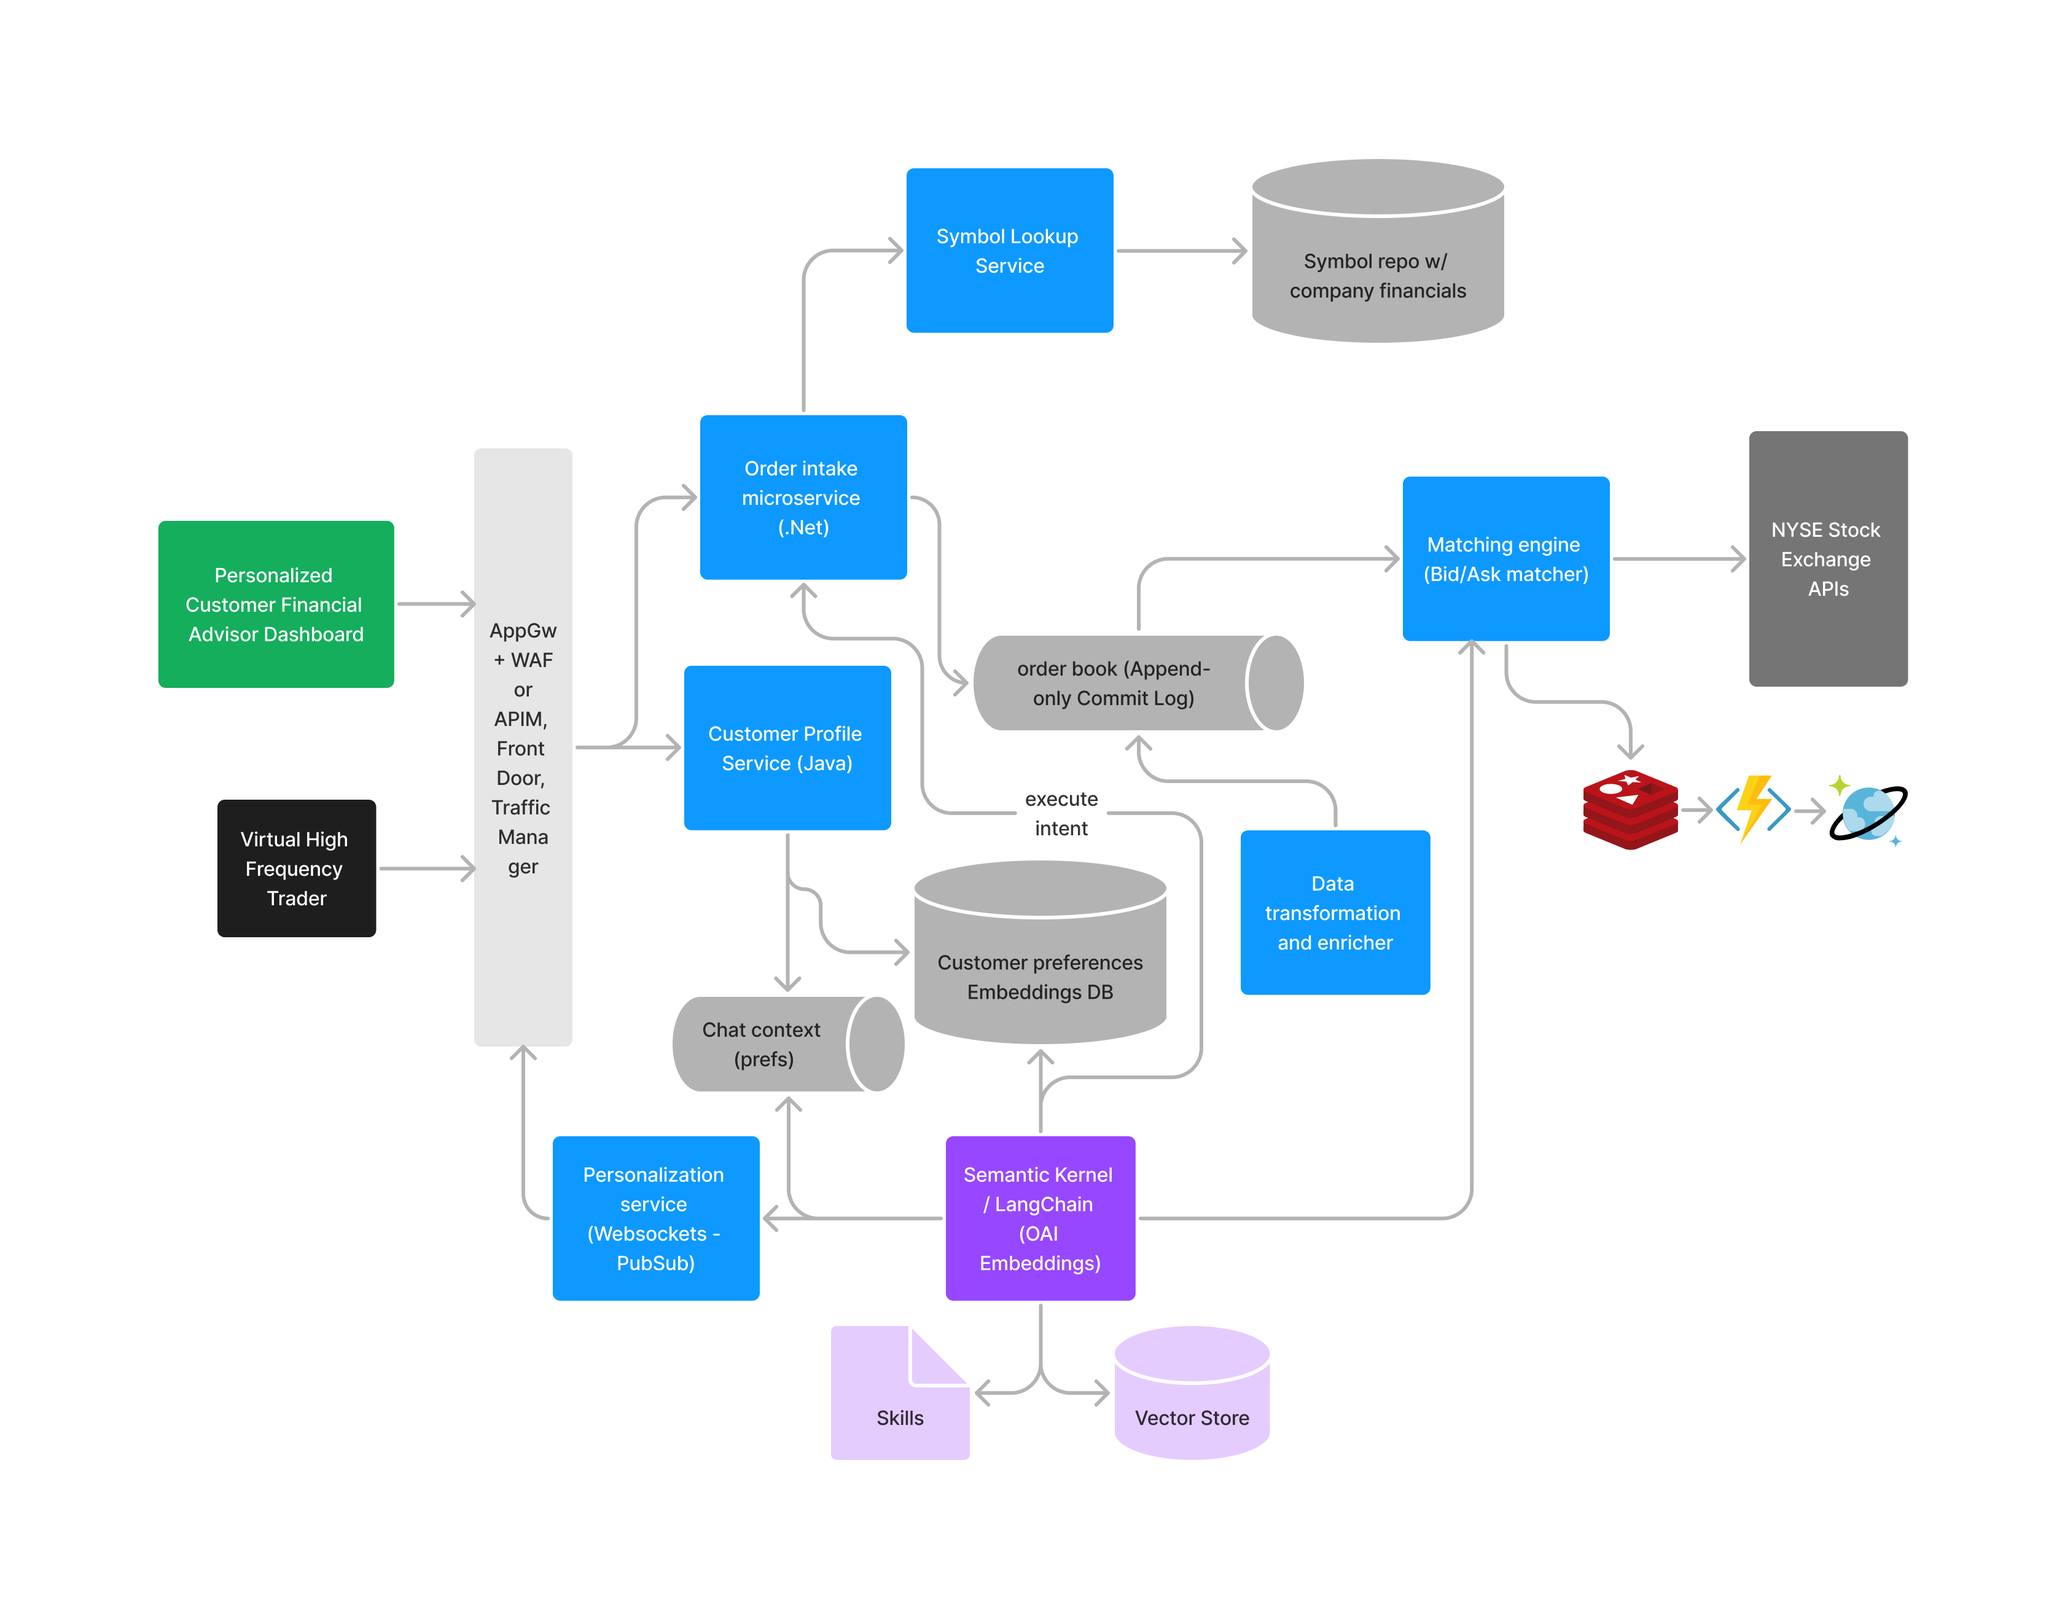
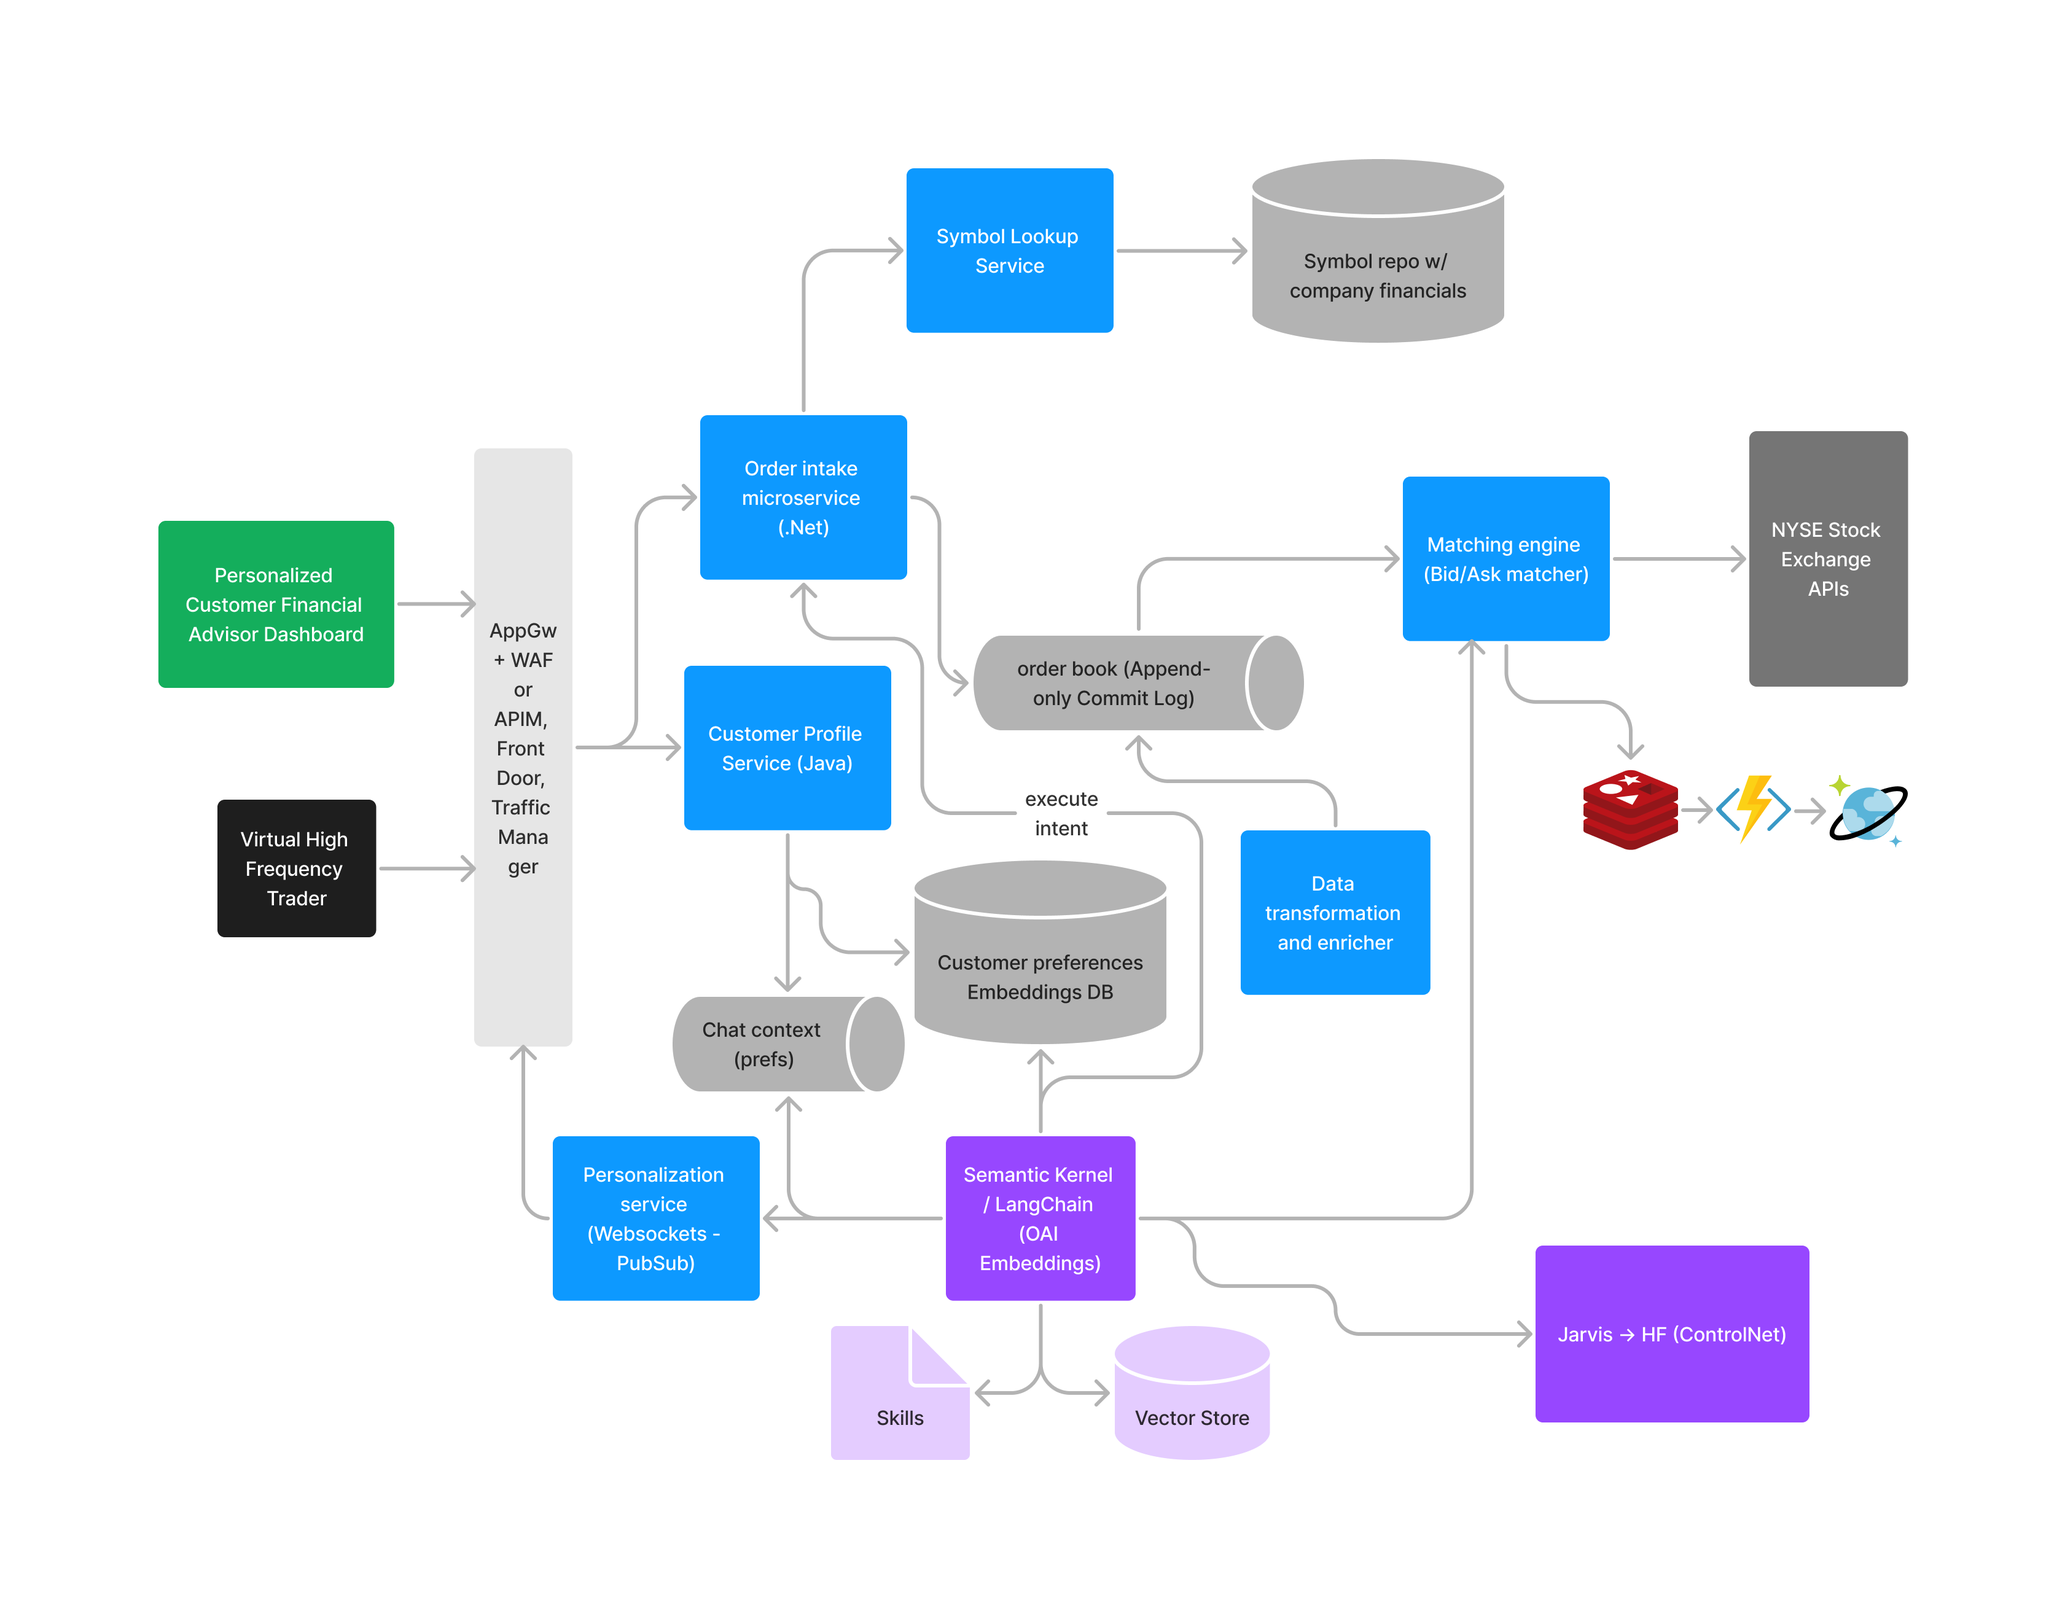
add memory service and embeddings with qdrant

Changed region(s): [[0.7183, 0.7466, 0.8745, 0.9021]]

diff --git a/ui-nextjs/src/views/pages/dialog/DialogConnectDataSources.tsx b/ui-nextjs/src/views/pages/dialog/DialogConnectDataSources.tsx
@@ -116,6 +116,7 @@ const DialogConnectDataSources = () => {
   const [activeTab, setActiveTab] = useState<string>('detailsTab')
   const [isLoading, setIsLoading] = useState(false)
   const [data, setData] = useState(null)
+  const [userEmbeddings, setUserEmbeddings] = useState(null)
 
   // ** Hook
   const { settings } = useSettings()
@@ -130,7 +131,6 @@ const DialogConnectDataSources = () => {
 
   const fetchFakeData = async () => {
     setIsLoading(true)
-
     try {
       const response = await fetch(`/api/generate/fake-customer-profile`, {
         method: 'GET',
@@ -153,6 +153,49 @@ const DialogConnectDataSources = () => {
       setIsLoading(false)
     }
   }
+
+  const persistUserEmbeddings = async () => {
+    setIsLoading(true)
+
+    try {
+      const response = await fetch(`/api/user/embeddings`, {
+        method: 'POST',
+        body: JSON.stringify(data),
+        headers: {
+          Accept: 'application/json'
+        }
+      })
+
+      if (!response.ok) {
+        throw new Error(`Error! status: ${response.status}`)
+      }
+      const result = await response.json()
+      setUserEmbeddings(result)
+      console.log(result)
+      toast.success('Vectorized User profile for long term memory!')
+    } catch ({ message }) {
+      // @ts-ignore
+      toast.error(message)
+    } finally {
+      setIsLoading(false)
+    }
+  }
+
+  const handleSubmit = () => {
+    fetchFakeData().then(() => {
+      console.log("User profile");
+      console.dir(data);
+      if (data) {
+        persistUserEmbeddings().then(() => {
+          console.log("User embeddings");
+          console.dir(userEmbeddings);
+          handleClose();
+        });
+      } else {
+        toast.error("Failed to fetch user profile. Please try again.");
+      }
+    });
+  };
 
   const NextArrow = direction === 'ltr' ? ArrowRight : ArrowLeft
   const PreviousArrow = direction === 'ltr' ? ArrowLeft : ArrowRight
@@ -180,11 +223,7 @@ const DialogConnectDataSources = () => {
             if (activeTab !== 'submitTab') {
               setActiveTab(nextTab)
             } else {
-              fetchFakeData().then(r => {
-                handleClose()
-                console.log(data)
-              })
-
+              handleSubmit()
             }
           }}
         >

diff --git a/ui-nextjs/src/pages/api/user/embeddings.ts b/ui-nextjs/src/pages/api/user/embeddings.ts
@@ -1,0 +1,26 @@
+import type { NextApiRequest, NextApiResponse } from 'next/types'
+
+export default async function embeddingsHandler(req: NextApiRequest, res: NextApiResponse) {
+
+  const { body, method } = req
+  switch (method) {
+    case 'POST':
+      // Store user embeddings in vector database
+      const requestHeaders: HeadersInit = new Headers()
+      requestHeaders.set('x-source', 'nextjs')
+      requestHeaders.set('Content-Type', 'application/json')
+      requestHeaders.set('charset', 'utf8')
+      console.log('body', body)
+      const response = await fetch(`${process.env.MEMORY_SERVICE_URL}/user`, {
+        method: 'POST',
+        body,
+        headers: requestHeaders
+      })
+      const responseJson = await response.json()
+      res.status(200).json(responseJson)
+      break
+    default:
+      res.setHeader('Allow', ['GET', 'PUT'])
+      res.status(405).end(`Method ${method} Not Allowed`)
+  }
+}

diff --git a/ui-nextjs/src/pages/home/index.tsx b/ui-nextjs/src/pages/home/index.tsx
@@ -18,7 +18,7 @@ import DialogConnectDataSources from '../../views/pages/dialog/DialogConnectData
 const Home = () => {
   const [stats, setStats] = useState(null)
 
-  const MINUTE_MS = 500000
+  const MINUTE_MS = 50000000
 
   const { settings } = useSettings()
 

diff --git a/memory-service/main.py b/memory-service/main.py
@@ -1,0 +1,86 @@
+import os
+import openai
+from qdrant_client import QdrantClient
+from qdrant_client.http import models
+from fastapi import FastAPI, Request
+from fastapi.responses import RedirectResponse
+from fastapi.middleware.cors import CORSMiddleware
+from pydantic import BaseSettings
+from pydantic import BaseModel
+
+COLLECTION_NAME = "miyagi-customer-profiles"
+EMBEDDING_MODEL = "gk-ada-002"
+
+
+class Settings(BaseSettings):
+    openai.api_type = "azure"
+    openai.api_base = os.getenv("OPENAI_API_BASE")
+    openai.api_version = "2022-12-01"
+    openai.api_key = os.getenv("OPENAI_API_KEY")
+
+    # to connect to local Qdrant instance
+    client = QdrantClient(":memory:")
+    # to connect to remote Qdrant instance in docker
+    # client = QdrantClient(host="localhost", port=6333)
+    client.recreate_collection(
+        collection_name=("%s" % COLLECTION_NAME),
+        vectors_config=models.VectorParams(size=100, distance=models.Distance.COSINE),
+    )
+
+
+settings = Settings()
+app = FastAPI()
+
+origins = ["*"]
+
+app.add_middleware(
+    CORSMiddleware,
+    allow_origins=origins,
+    allow_credentials=True,
+    allow_methods=["*"],
+    allow_headers=["*"],
+)
+
+
+class User(BaseModel):
+    firstName: str
+    lastName: str
+    age: int | None = None
+    userId: int
+    financialProfile: object | None = None
+    aspirations: object | None = None
+
+
+@app.get("/health")
+async def pong():
+    return {"status": "Ok"}
+
+
+@app.get("/", include_in_schema=False)
+async def docs_redirect():
+    return RedirectResponse(url='/redoc')
+
+
+@app.post("/user")
+async def persist_user_profile_embeddings(user: User):
+    user_profile = user.json()
+    if not user_profile:
+        print("No user profile provided")
+        return {"error": "No user profile provided"}
+    else:
+        print(f'User Profile: {user_profile}')
+        gpt_output = await get_openai_embeddings(user_profile)
+        return {"output": gpt_output}
+
+
+async def get_openai_embeddings(user_profile: str):
+    embeddings = openai.Embedding.create(deployment_id=EMBEDDING_MODEL,
+                                         input=user_profile)
+    print(f'GPT output: {embeddings}')
+    return embeddings
+
+
+async def persist_embeddings_to_qdrant(embeddings: str):
+    settings.client.add_documents(collection_name=COLLECTION_NAME,
+                                  documents=[{"id": 1, "embedding": embeddings}])
+    return True

diff --git a/memory-service/setup.py b/memory-service/setup.py
@@ -1,0 +1,27 @@
+from setuptools import setup, find_packages
+
+setup(
+    name="memory-service",
+    version="0.1.0",
+    description="A facade to vector memory stores",
+    packages=find_packages(),
+    install_requires=[
+        "uvicorn==0.20.0",
+        "openai==0.26.1",
+        "fastapi==0.89.1",
+        "pydantic~=1.10.4",
+        "qdrant-client==1.1.3",
+    ],
+    extras_require={
+        "dev": [
+            "pytest>=6.2.5",
+        ],
+    },
+    classifiers=[
+        "Development Status :: 3 - Alpha",
+        "Intended Audience :: Developers",
+        "License :: OSI Approved :: MIT License",
+        "Programming Language :: Python :: 3",
+        "Programming Language :: Python :: 3.9",
+    ],
+)

diff --git a/README.md b/README.md
@@ -6,11 +6,11 @@
 
 <p align="center"><img src="ui-nextjs/public/images/readme/1.png" width=20% height=20% /></p>
 
-Project Miyagi is an AI-first architecture and user experience showcase. It serves as a sandbox to explore and diffuse emerging programming paradigms that are developed using the attention mechanism, such as GPT-x. In addition, it introduces, to traditional software engineers, nascent design patterns in prompt engineering (chain-of-thought, few-shot, in-context), indexing nascent design patterns in prompt engineering, indexing for memory, and affordances to traditional software engineers. For instance, some of the design patterns highlighted include chain-of-thought, few-shot, in-context, vector stores, embeddings, conversational memory stores, and document loaders.
+Project Miyagi is the codebase for an [envisioning workshop](https://github.com/appdevgbb/miyagi-workshop) to rethink intelligent application design, development, and deployment. It serves as a deep-dive sandbox to get hands-on with emerging programming paradigms that leverage foundation models. In addition, it introduces, to traditional software engineers, nascent design patterns in prompt engineering (chain-of-thought, few-shot, in-context), vectorizing for long term memory, and affordances to LLMs.
 
-The project also includes examples of usage for popular frameworks like [Semantic Kernel](https://github.com/microsoft/semantic-kernel), [LangChain](https://github.com/hwchase17/langchain#readme), vector stores ([Qdrant](https://qdrant.tech/), [Chroma](https://www.trychroma.com/), [Milvus](https://milvus.io/docs), [Pinecone](https://www.pinecone.io/)), [SD-InstructPix2Pix](https://github.com/timothybrooks/instruct-pix2pix), [ControlNet](https://github.com/lllyasviel/ControlNet). Additionally, it features foundation Models from Azure OpenAI and [Cognitive Services](https://azure.microsoft.com/en-us/blog/announcing-a-renaissance-in-computer-vision-ai-with-microsofts-florence-foundation-model). Utilize this project to gain insights as you modernize and transform your applications with AI and fine-tune your private data to build your own private copilot.
+The project also includes examples of usage for popular frameworks and orchestrators like [Semantic Kernel](https://github.com/microsoft/semantic-kernel), [LangChain](https://github.com/hwchase17/langchain#readme), [Jarvis](https://github.com/microsoft/JARVIS), vector stores ([Qdrant](https://qdrant.tech/), [Chroma](https://www.trychroma.com/), [Milvus](https://milvus.io/docs), [Pinecone](https://www.pinecone.io/)), [ControlNet](https://github.com/lllyasviel/ControlNet). Additionally, it features foundation Models from Azure OpenAI and [Cognitive Services](https://azure.microsoft.com/en-us/blog/announcing-a-renaissance-in-computer-vision-ai-with-microsofts-florence-foundation-model). Utilize this project to gain insights as you modernize and transform your applications with AI and fine-tune your private data to build your own private copilot.
 
-Embedded with intelligence and built on a scalable event-driven architecture, Project Miyagi emphasizes customer-centricity. It challenges you to rethink how AI can elevate and hyper-personalize your customers' experiences, whether in a line-of-business (LOB) or consumer-facing app. It features an easy-to-understand use case that offers concrete examples of how these new AI platforms and architectures, supported by Azure, can be leveraged for valuable insights.
+Embedded with intelligence and built on a scalable event-driven architecture, Project Miyagi emphasizes customer-centricity. It challenges you to rethink how AI can curate and create hyper-personalized user interactions, whether in a line-of-business (LOB) or consumer-facing app. It features an easy-to-understand use case that offers concrete examples of how these new AI platforms and architectures, supported by Azure, can be leveraged for valuable insights.
 
 This polyglot codebase relies on a multitude of microservices, choreographing retail and high-frequency trading. It includes generative text and images for personalized financial coaching, summarization, and agent-like orchestration. Built on a cloud-native EDA backbone, the architecture and codebase ensures enterprise-grade quality attributes such as availability, scalability, and maintainability.
 
@@ -24,16 +24,17 @@ Embark on a journey to transform your applications into cutting-edge, intelligen
 
 - Azure OpenAI
   - text-davinci-003
+  - text-embedding-ada-002
   - whisper
   - dall-e
 - [Semantic Kernel](https://github.com/microsoft/semantic-kernel)
+- [Jarvis](https://github.com/microsoft/JARVIS)
 - [LangChain](https://github.com/hwchase17/langchain#readme)
 - [Foundation Models from CogServices](https://azure.microsoft.com/en-us/blog/announcing-a-renaissance-in-computer-vision-ai-with-microsofts-florence-foundation-model/)
 - [Qdrant](https://qdrant.tech/solutions/)
 - [Chroma](https://www.trychroma.com/)
 - [ControlNet](https://github.com/lllyasviel/ControlNet)
-- Temporal
-- DreamFusion
+- [Azure Deployment Environments](https://azure.microsoft.com/en-us/products/deployment-environments/)
 
 ### Partial Implementations
 

diff --git a/memory-service/README.md b/memory-service/README.md
@@ -1,0 +1,34 @@
+# Memory Service
+
+This is a façade for long term memory stores such as qdrant and Azure Redis Cache
+
+## Getting Started
+To get started, you'll need to have the following installed and provisioned:
+- [Docker](https://www.docker.com/)
+- [Python](https://www.python.org/downloads/)
+- [Azure CLI](https://docs.microsoft.com/en-us/cli/azure/install-azure-cli)
+- [Azure OpenAI](https://azure.microsoft.com/en-us/services/openai/)
+- [Qdrant](https://qdrant.tech/documentation/install/)
+
+## Setup
+To get started, you'll need to create a `.env` file in the root of the project. This file will contain all of the environment variables that are used in the project. You can use the `.env.example` file as a template.
+
+### Local Development
+To run the project locally, you'll need to run the following commands:
+```bash
+docker-compose up
+```
+
+### Contributing
+
+This project welcomes contributions and suggestions.  Most contributions require you to agree to a
+Contributor License Agreement (CLA) declaring that you have the right to, and actually do, grant us
+the rights to use your contribution. For details, visit https://cla.opensource.microsoft.com.
+
+When you submit a pull request, a CLA bot will automatically determine whether you need to provide
+a CLA and decorate the PR appropriately (e.g., status check, comment). Simply follow the instructions
+provided by the bot. You will only need to do this once across all repos using our CLA.
+
+This project has adopted the [Microsoft Open Source Code of Conduct](https://opensource.microsoft.com/codeofconduct/).
+For more information see the [Code of Conduct FAQ](https://opensource.microsoft.com/codeofconduct/faq/) or
+contact [opencode@microsoft.com](mailto:opencode@microsoft.com) with any additional questions or comments.
